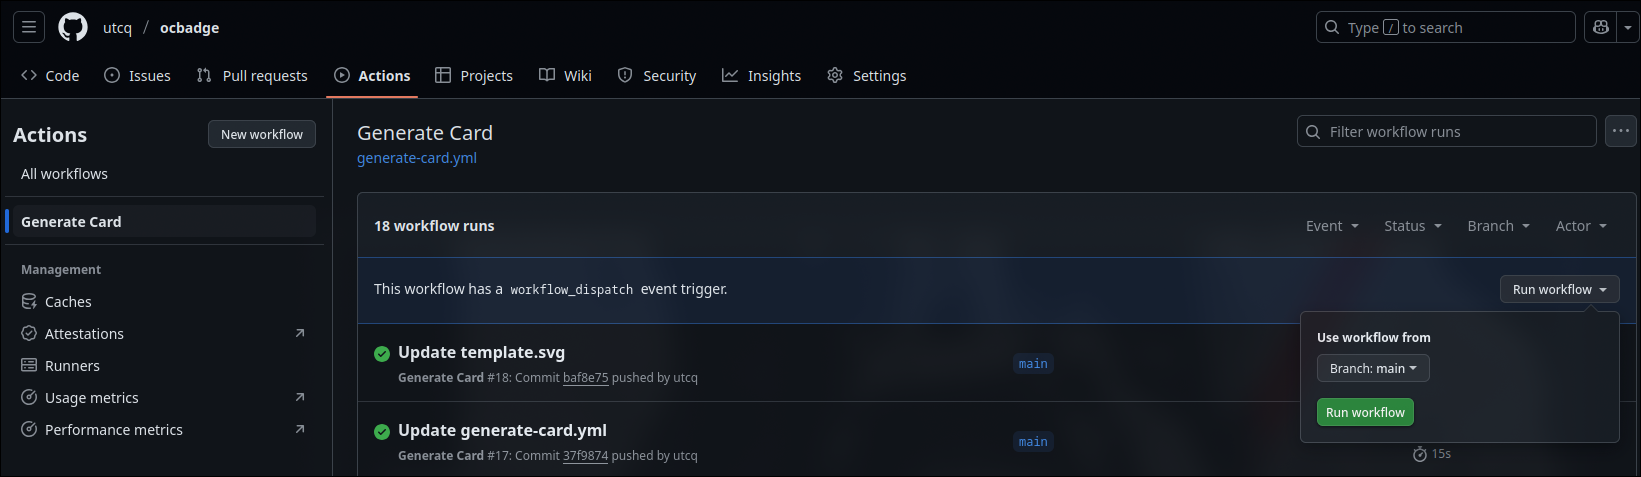
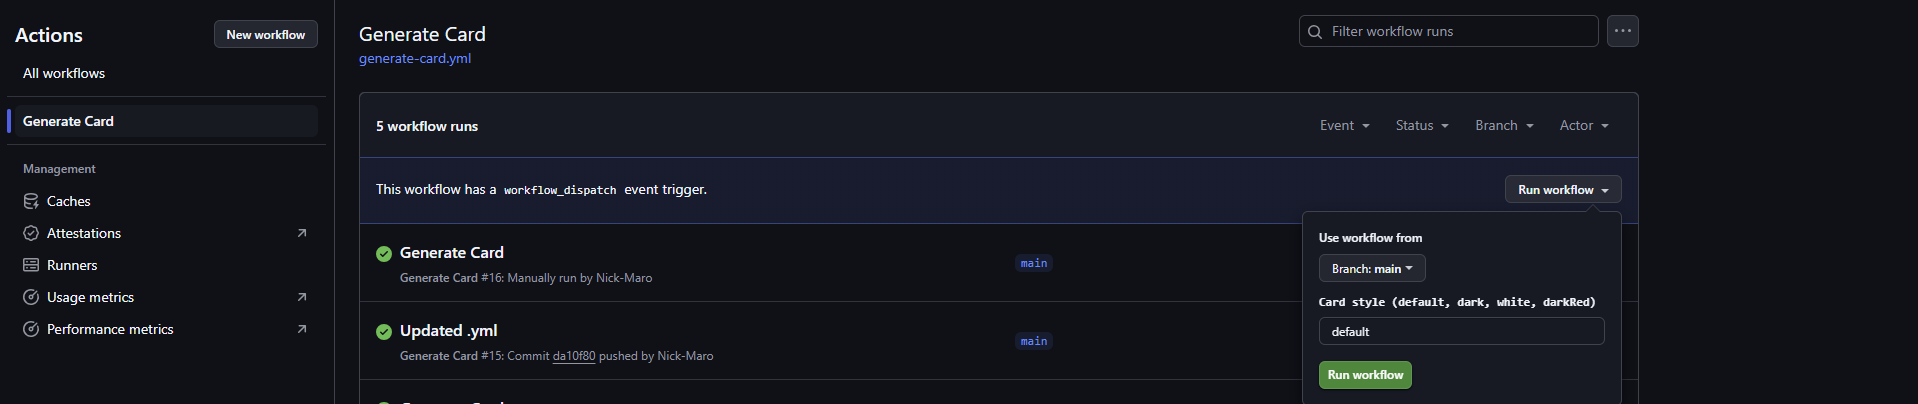
Added Themes

diff --git a/gen.py b/gen.py
@@ -1,16 +1,20 @@
 import requests, os
 from collections import defaultdict
 import base64
+import sys
 
 TOKEN = os.getenv("OC_TOKEN")
-try: assert TOKEN.count("-") == 4 and len(TOKEN) == 36
-except: raise ValueError("Invalid token format")
+try:
+    assert TOKEN.count("-") == 4 and len(TOKEN) == 36
+except:
+    raise ValueError("Invalid token format")
 
 PLAYER_URL = "https://training.olicyber.it/api/scoreboard/player"
 SCOREBOARD_URL = "https://training.olicyber.it/api/scoreboard"
 
 if TOKEN is None:
     raise ValueError("TOKEN environment variable not set")
+
 headers = {
     "Authorization": f"Token {TOKEN}",
 }
@@ -36,15 +40,26 @@ useful_data = {
     "best_category": find_best_category(user_data),
 }
 
-def make_card(data):
-    try: logo = open("data/logo.svg", 'r').read()
-    except: raise ValueError("data/logo.svg not found")
+def make_card(data, template="default"):
+    try: 
+        logo = open("data/logo.svg", 'r').read()
+    except: 
+        raise ValueError("data/logo.svg not found")
     
     data["logo"] = base64.b64encode(logo.encode()).decode()
-    try: return open("data/template.svg", 'r').read().format_map(defaultdict(lambda: "N/A", data))
+    
+    template_filename = f"data/template_{template}.svg"
+    try: 
+        return open(template_filename, 'r').read().format_map(defaultdict(lambda: "N/A", data))
     except Exception as e:
-        raise ValueError("data/template.svg not found, or invalid: " + str(e))
+        raise ValueError(f"{template_filename} not found, or invalid: {str(e)}")
+
+
+template_style = "default"
+
+if len(sys.argv) > 1 and sys.argv[1] in ["default", "dark", "white","darkRed"]:
+    template_style = sys.argv[1]
+
 
 with open("card.svg", "w") as f:
-    f.write(make_card(useful_data))
-
+    f.write(make_card(useful_data, template_style))

diff --git a/README.md b/README.md
@@ -32,7 +32,11 @@ The card is updated everyday at midnight (`UTC+1`) but you can update it manuall
 
 Proceed to **Actions -> Generate Card (on the left) -> Run workflow**
 
+When manually triggering the workflow, you can select a style from the dropdown menu:
+
 ![Screen](data/actions.png)
+
+In the workflow run form, you'll see a "Card style" input field where you can choose between `default`, `dark`, `white`, or `darkRed`.
 
 ### Embedding
 You now have to insert
@@ -40,10 +44,10 @@ You now have to insert
 <img src="https://raw.githubusercontent.com/USER/ocbadge/main/card.svg"/>
 ```
 in your github profile README
-
 ## Local Generation
 ```sh
 export OC_TOKEN=*****
-python3 gen.py
+python3 gen.py style
 ```
-The card will be saved in the execution dir as `card.svg`
+Where style is optional and can be one of: `default`, `dark`, `white`, or `darkRed`.
+The card will be saved in the execution dir as card.svg
